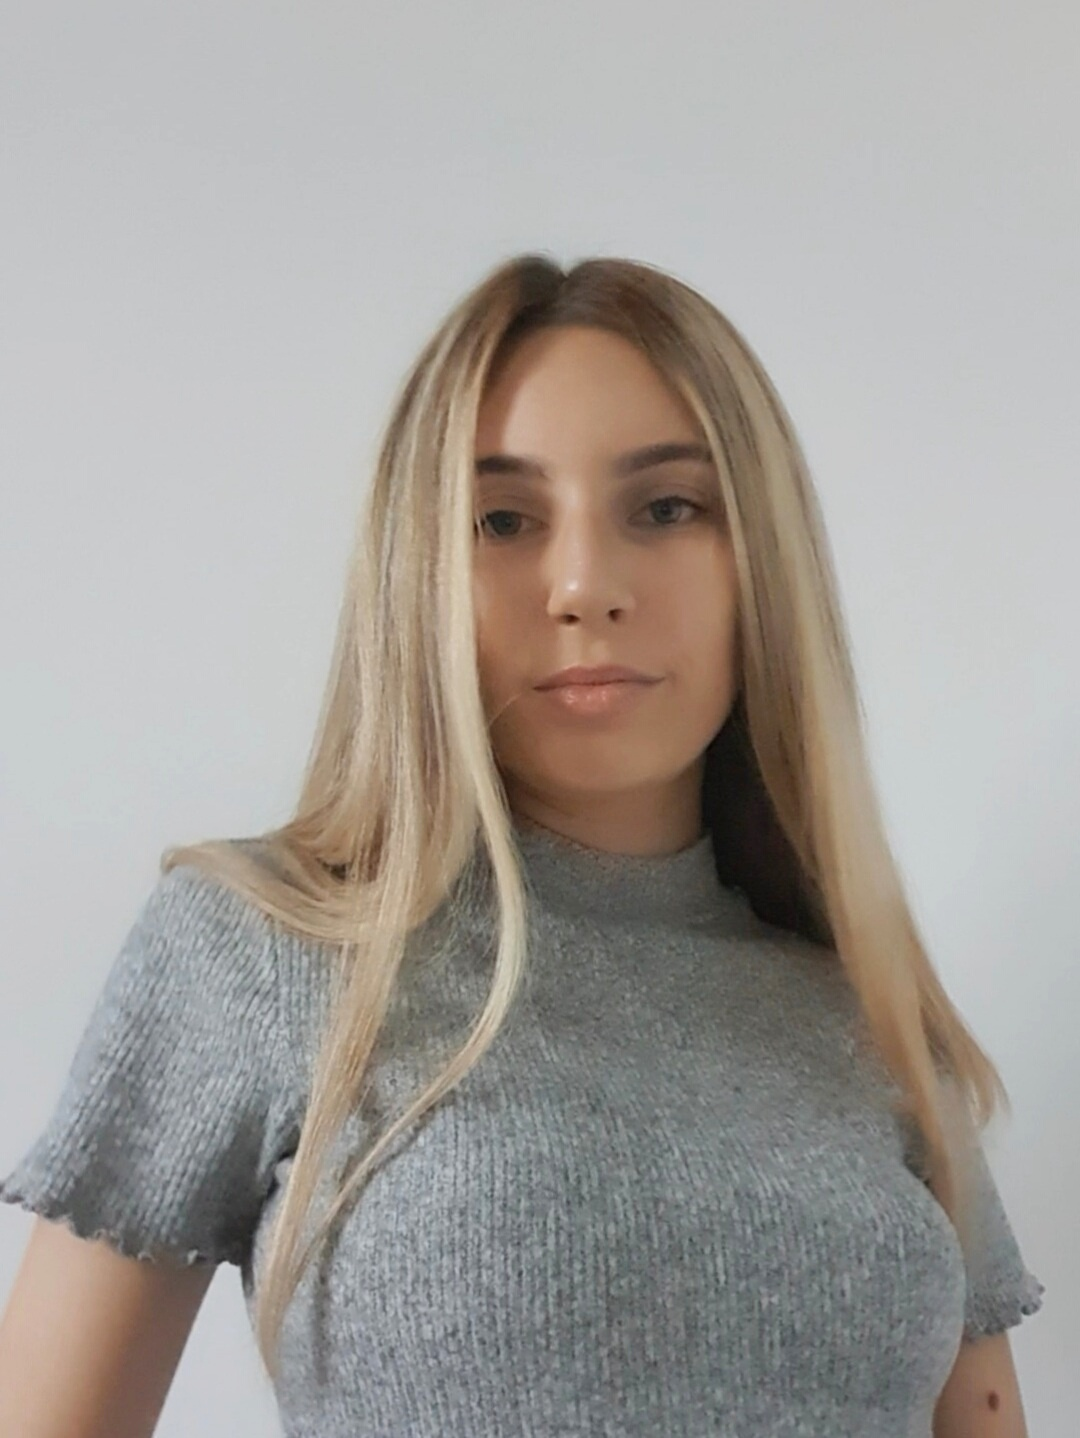
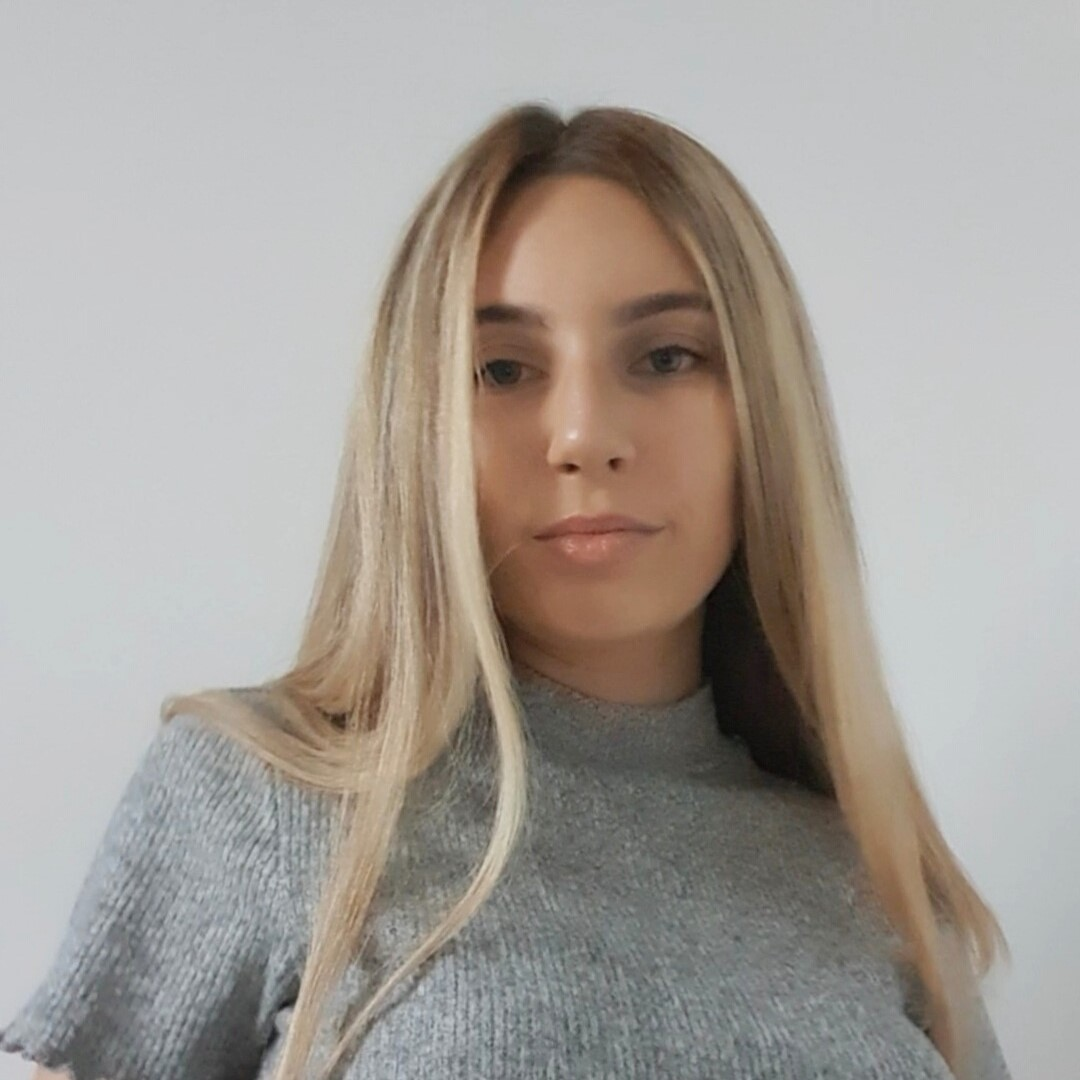
about us content
added all the content and polaroids

diff --git a/about-us.html b/about-us.html
@@ -24,7 +24,12 @@
   gtag('config', 'G-3G5MG5NP4S');
 </script>
     <!-- End of Google Analytics code -->
-    
+  <style>
+	  h2 {
+	  border-bottom-style: double;
+	  border-bottom-color: #d4610e;
+	  }
+	  </style> 
   </head>
   <body class="h-100 d-flex flex-column">
 
@@ -68,39 +73,54 @@
 
         <!-- Column #1 -->
         <div class="col-sm-6 col-xl-5 col-xxl-4">
-          <h2 class="w-50 border-bottom border-3 border-info">Preamble</h2>
-          <p>Whereas recognition of the inherent dignity and of the equal and inalienable rights of all members of the human family is the foundation of freedom, justice and peace in the world,</p>
-          <p>Whereas disregard and contempt for human rights have resulted in barbarous acts which have outraged the conscience of mankind, and the advent of a world in which human beings shall enjoy freedom of speech and belief and freedom from fear and want has been proclaimed as the highest aspiration of the common people,</p>
-          <p>Whereas it is essential, if man is not to be compelled to have recourse, as a last resort, to rebellion against tyranny and oppression, that human rights should be protected by the rule of law,</p>
-          <p>Whereas it is essential to promote the development of friendly relations between nations,</p>
-          <p>Whereas the peoples of the United Nations have in the Charter reaffirmed their faith in fundamental human rights, in the dignity and worth of the human person and in the equal rights of men and women and have determined to promote social progress and better standards of life in larger freedom,</p>
-          <p>Whereas Member States have pledged themselves to achieve, in co-operation with the United Nations, the promotion of universal respect for and observance of human rights and fundamental freedoms,</p>
-          <p>Whereas a common understanding of these rights and freedoms is of the greatest importance for the full realization of this pledge,</p>
-          <p>Now, therefore,</p>
-          <p>The General Assembly,</p>
-          <p>Proclaims this Universal Declaration of Human Rights as a common standard of achievement for all peoples and all nations, to the end that every individual and every organ of society, keeping this Declaration constantly in mind, shall strive by teaching and education to promote respect for these rights and freedoms and by progressive measures, national and international, to secure their universal and effective recognition and observance, both among the peoples of Member States themselves and among the peoples of territories under their jurisdiction.</p>
+          <h2 class="aboutustitle">More about our Team...</h2>
+            <p>Above you see the talented team behind ComCon, CompanionConnects! We are a group of four innovative Creative Business students with the mission to empower elderly individuals living alone. We aim to take away their technology-related challenges and create a community with our users.</p>
+            <p>Through dedicated work, we gained a thorough understanding of the difficulties this generation is facing. We developed several workshops and personal tech services provided at home, tailored to meet the unique needs of each individual. From learning how to navigate social media to get online access to important services, ComCon is here to help every step of the way.</p>
+			  <h2></h2>
+            <p>The workshops are designed to be accessible, affordable and effective, given by passionate technology experts. They will take the time to understand each of our customer’s specific goals an challenges. Don’t worry there is also the option to have a cup of tea afterwards!</p>
+          <p>For our users to get the most out of our services, we also created a vibrant community. We understand the importance of social connections, especially for those who may be living alone. It enables our customers to meet and connect with others who share their interests and challenges. Join our community to access a supportive environment to not just learn from us but also from each other!</p>
+          <h2 class="w-50 aboutustitle">Why Wait?</h2>
+			<h5>“Everyone deserves the opportunity to thrive in today’s digital world!”</h5>
+			<p class="fst-italic">- Mark Jansen, mobile phone workshop giver</p>
+			  <h2></h2>
+			<p>Contact us today to learn more about our workshops, personal assistance, and our created community and start your journey towards technology empowerment and community building with ComCon, because companion connects.</p>
+			
+		   <img src="images/phone.png" alt="Phone logo" width="30">	
+			<p>+31 6 29485398</p>
+           <img src="images/mail.png" alt="E-mail logo" width="40">
+	      <p>companionconnects@gmail.com</p>
         </div>
 
         <!-- Column #2 -->
         <div class="col-sm-6 col-xl-5 col-xxl-4">
-          <h2 class="w-50 border-bottom border-3 border-info">Article 1</h2>
-          <p>All human beings are born free and equal in dignity and rights. They are endowed with reason and conscience and should act towards one another in a spirit of brotherhood.</p>
-          <h2 class="w-50 border-bottom border-3 border-info">Article 2</h2>
-          <p>Everyone is entitled to all the rights and freedoms set forth in this Declaration, without distinction of any kind, such as race, colour, sex, language, religion, political or other opinion, national or social origin, property, birth or other status. Furthermore, no distinction shall be made on the basis of the political, jurisdictional or international status of the country or territory to which a person belongs, whether it be independent, trust, non-self-governing or under any other limitation of sovereignty.</p>
-          <h2 class="w-50 border-bottom border-3 border-info">Article 3</h2>
-          <p>Everyone has the right to life, liberty and security of person.</p>
-          <h2 class="w-50 border-bottom border-3 border-info">Article 4</h2>
-          <p>No one shall be held in slavery or servitude; slavery and the slave trade shall be prohibited in all their forms.</p>
-          <h2 class="w-50 border-bottom border-3 border-info">Article 5</h2>
-          <p>No one shall be subjected to torture or to cruel, inhuman or degrading treatment or punishment.</p>
-          <h2 class="w-50 border-bottom border-3 border-info">Article 6</h2>
-          <p>Everyone has the right to recognition everywhere as a person before the law.</p>
-          <h2 class="w-50 border-bottom border-3 border-info">Article 7</h2>
-          <p>All are equal before the law and are entitled without any discrimination to equal protection of the law. All are entitled to equal protection against any discrimination in violation of this Declaration and against any incitement to such discrimination.</p>
-          <h2 class="w-50 border-bottom border-3 border-info">Article 8</h2>
-          <p>Everyone has the right to an effective remedy by the competent national tribunals for acts violating the fundamental rights granted him by the constitution or by law.</p>
-          <h2 class="w-50 border-bottom border-3 border-info">Article 9</h2>
-          <p>No one shall be subjected to arbitrary arrest, detention or exile.</p>
+			<div class="polaroid">
+              <img src="images/marije.jpeg" alt="Profile Picture" style="width:100%">
+            <div class="container">
+              <p ><h3 class="aboutustitle">Marije</h3></p>
+				<p>All human beings are born free and equal in dignity and rights. They are endowed with reason and conscience and should act towards one another in a spirit of brotherhood.</p>
+			 </div>
+            </div> 
+          <div class="polaroid">
+              <img src="images/imke.JPG" alt="Profile Picture" style="width:100%">
+            <div class="container">
+              <p ><h3 class="aboutustitle">Imke</h3></p>
+				<p>All human beings are born free and equal in dignity and rights. They are endowed with reason and conscience and should act towards one another in a spirit of brotherhood.</p>
+			 </div>
+            </div>
+		<div class="polaroid">
+              <img src="images/ioana.jpg" alt="Profile Picture" style="width:100%">
+            <div class="container">
+              <p ><h3 class="aboutustitle">Ioana</h3></p>
+				<p>All human beings are born free and equal in dignity and rights. They are endowed with reason and conscience and should act towards one another in a spirit of brotherhood.</p>
+			 </div>
+            </div>
+	  <div class="polaroid">
+              <img src="images/kat.jpeg" alt="Profile Picture" style="width:100%">
+            <div class="container">
+              <p ><h3 class="aboutustitle">Kat</h3></p>
+				<p>All human beings are born free and equal in dignity and rights. They are endowed with reason and conscience and should act towards one another in a spirit of brotherhood.</p>
+			 </div>
+            </div>
         </div>
 
       </div>

diff --git a/css/styles.css b/css/styles.css
@@ -52,5 +52,19 @@ footer a:hover {
 	font-size: 15px;	
 }
 
+.aboutustitle {
+	font-family: Cambria, "Hoefler Text", "Liberation Serif", Times, "Times New Roman", "serif";
+	color: #d4610e;
+}
 
+.polaroid {
+  width: 70%;
+  background-color: white;
+  box-shadow: 0 4px 8px 0 rgba(0, 0, 0, 0.2), 0 6px 20px 0 rgba(0, 0, 0, 0.19);
+  margin-bottom: 25px;
+}
 
+.containerpolaroid {
+	text-align: center;
+  padding: 10px 20px;
+}
